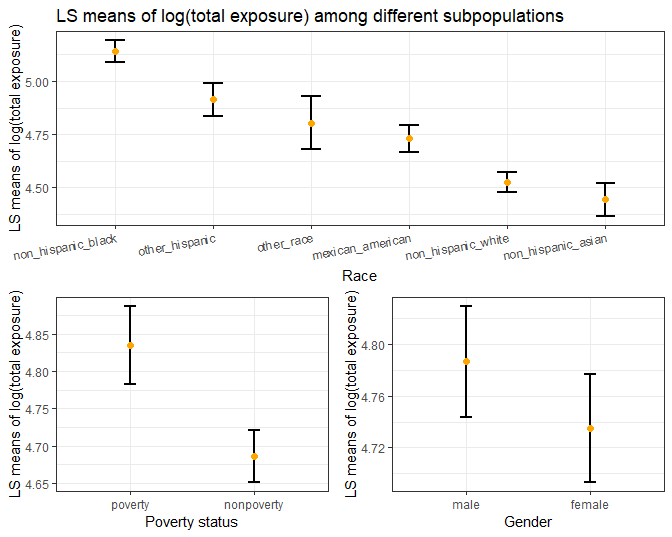
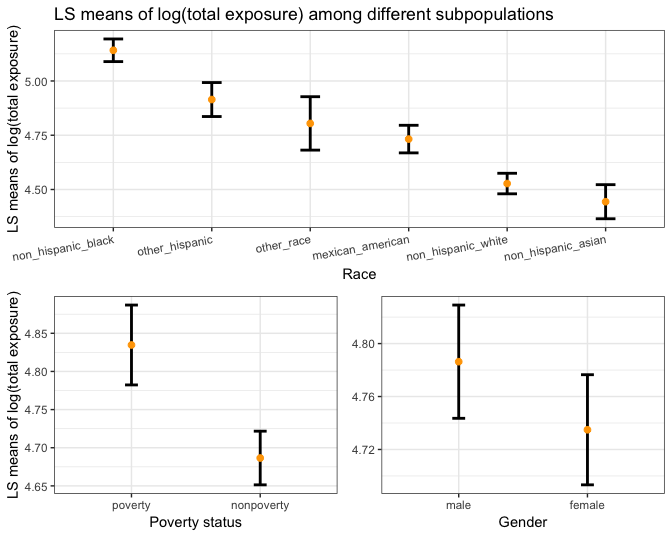
add plot title

diff --git a/report.md b/report.md
@@ -21,8 +21,6 @@ Related works
 
 3.<https://doi.org/10.1289/ehp.93101378>
 
-<<<<<<< HEAD
-=======
 4.<https://doi.org/10.2174/1568008043340017>
 
 5.<https://doi.org/10.1016/j.jhazmat.2017.06.036>
@@ -51,7 +49,6 @@ Initial questions:
 -   Are people exposed at the same levels of plasticizers affected the same way?
 -   Is there a dose response relationship? Is this relationship linear?
 
->>>>>>> 06b478542b646c7da54550225292c2aefb2b7840
 Data sources
 ------------
 
@@ -173,7 +170,7 @@ We created a function (`read_file_data`) to read and combine data with one docum
 
 We selected variables of interest and converted `gender`, `race`, `bmi_cat` and `poverty_status` into factors. For each individual, the total exposure (`phthte_all`) was calculated as the sum of exposure for each of the eight phthalates. Then we used `gather` to go from wide format to long format. We took log transformation of `concentrate` to create `log_value`.
 
-The final dataset contains data for 8 urinary phthalate metabolites and related information from 8149 participants in the National Health and Nutrition Examination Survey (NHANES) 20011–2016. It contains 73341 observations and 11 variables.
+The final dataset contains data for 8 urinary phthalate metabolites and related information from 8149 participants in the National Health and Nutrition Examination Survey (NHANES) 2011–2016. It contains 73341 observations and 11 variables.
 
 -   `id`: Respondent sequence number
 -   `gender`: Gender
@@ -182,7 +179,7 @@ The final dataset contains data for 8 urinary phthalate metabolites and related 
 -   `bmi`: Body mass index (kg/m\*\*2)
 -   `bmi_cat`: BMI Category (only for children/youth)
 -   `age_cat`: Child or adult
--   `phthalate`: Different chemical components as phthalates
+-   `phthalate`: Different chemical components as phthalates and the sum-total exposure
 -   `concentrate`: Concentration of the components
 -   `log_value`: log value of the concentration
 
@@ -317,7 +314,7 @@ bar_1 + (bar_2 + bar_3 + bar_4) + plot_layout(ncol = 1)
 
 <img src="report_files/figure-markdown_github/unnamed-chunk-5-1.png" style="display: block; margin: auto;" />
 
-We made barplots to show percent contribution of individual phthalates to the sum-total exposure among different subgroups. We found that mono-ethyl phthalate (MEP) contributed most to the sum-total exposure. And percent contribution patterns are different in children and adults and among different races.
+We made barplots to show percent contribution of individual phthalates to the sum-total exposure among different subgroups. We found that mono-ethyl phthalate (MEP) contributed most to the sum-total exposure. And percent contribution patterns are different among children and adults and among different race groups.
 
 Density plots of the sum-total exposure
 ---------------------------------------
@@ -327,7 +324,7 @@ p1_density =
   phthte_demo_bmx %>% 
   filter(phthalate == "phthalate_all") %>% 
   ggplot(aes(x = concentrate)) + 
-  geom_density() +
+  geom_density(fill = "orange", alpha = 0.5) +
   labs(
     title = "Density plot of the sum-total exposure",
     y = "Density",
@@ -338,11 +335,11 @@ p2_density =
   phthte_demo_bmx %>% 
   filter(phthalate == "phthalate_all") %>% 
   ggplot(aes(x = log_value)) + 
-  geom_density() +
+  geom_density(fill = "orange", alpha = 0.5) +
   labs(
     title = "Density plot of log(the sum-total exposure)",
     y = "Density",
-    x = "Log(the sum-total exposure)"
+    x = "Log(sum-total exposure)"
   )
 
 p1_density + p2_density + plot_layout(ncol = 1)
@@ -350,10 +347,10 @@ p1_density + p2_density + plot_layout(ncol = 1)
 
 <img src="report_files/figure-markdown_github/unnamed-chunk-6-1.png" style="display: block; margin: auto;" />
 
-As the distribution of the sum-total exposure is extremely right skewed, we used log(the sum-total exposure) (`log_value`) to do subsequent analyses.
+As the distribution of the sum-total exposure is extremely right skewed, we used log(sum-total exposure) (`log_value`) to do subsequent analyses.
 
-Violin plots of log(the sum-total exposure)
--------------------------------------------
+Violin plots of log(sum-total exposure)
+---------------------------------------
 
 ``` r
 race_dist =
@@ -428,14 +425,12 @@ race_dist
 
 <img src="report_files/figure-markdown_github/unnamed-chunk-7-2.png" style="display: block; margin: auto;" />
 
-We stratfied the study population on the basis of gender, poverty status, race and age, and made violin plots for each subgroup. From violin plots, we found that there were between-group differences in log(the sum-total exposure) on the basis of race and poverty status. However, differences are not very obvious in violin plots.
+We stratified the study population on the basis of gender, poverty status, race and age, and made violin plots for each subgroup. From violin plots, we found that there were between-group differences in log(sum-total exposure) on the basis of race and poverty status. However, differences are not very obvious in violin plots.
 
 LS means analysis
 -----------------
 
-In order to compare log(the sum-total exposure) value in different subgroups, we fitted a multilinear model and calculated least square means.
-
-In order to compare phthalates concentrate in different subpopulations, we fitted a multilinear model and calculated the least square means.
+In order to compare log(sum-total exposure) value in different subgroups, we fitted a multilinear model and calculated least square means.
 
 ### Fit a multilinear model
 
@@ -521,7 +516,7 @@ p3_gender =
   geom_point(color = "orange", size = 2) +
   labs(
     x = "Gender",
-    y = "LS means of log(total exposure)"
+    y = NULL
   ) 
 
 
@@ -530,16 +525,16 @@ p1_race + (p2_poverty + p3_gender) + plot_layout(ncol = 1)
 
 <img src="report_files/figure-markdown_github/unnamed-chunk-9-1.png" style="display: block; margin: auto;" />
 
-Plots shows least square mean value and 95% confidence intervals of log(total exposure) by race, poverty status and gender. (Least square means are means for groups that are adjusted for other terms in the model)
+Plots above show least square means and 95% confidence intervals of log(sum-total exposure) by race, poverty status and gender. (Least square means are means for groups that are adjusted for other terms in the model)
 
--   Compared to other races, levels of the sum-total exposure were significantly higher in non\_hispanic\_black.
--   Compared to the nonpoverty, levels of the sum-total exposure were significantly higher in poverty.
+-   Compared to other race groups, levels of the sum-total exposure were significantly higher in non\_hispanic\_blacks.
+-   Compared to the group who are living in nonpoverty, levels of the sum-total exposure were significantly higher in the group who are living in poverty.
 -   Compared to females, levels of the sum-total exposure were higher in males.
 
 Obesity analysis
 ----------------
 
-In this part, we tried to explore the association of the phthalate exposure and the body mass index (BMI) and obesity outcome.
+In this part, we tried to explore the association of the sum-total phthalate exposure and the body mass index (BMI) and obesity outcome.
 
 ### Explore the association between the phthalate exposure and obesity status
 
@@ -554,36 +549,36 @@ phthte_adult = phthte_demo_bmx %>%
 
 phth_obese_children = phthte_children %>%
   filter(phthalate == "phthalate_all") %>%
-  ggplot(aes(x = log_value, y = bmi, color = gender)) +
-  geom_point(alpha = 0.3) +
-  geom_smooth(method = "lm", lwd = 1.5) +
+  ggplot(aes(x = log_value, y = bmi)) +
+  geom_point(aes(color = gender), alpha = 0.5) +
+  geom_smooth(method = "lm") +
   facet_grid(~gender) +
   labs(
     x = "Log value of phthalates concentrate",
     y = "Body mass index (BMI)",
     title = "Association between the phthalate exposure and obesity status among children"
   ) +
-  scale_fill_brewer(palette = "Pastel2")
+  scale_color_brewer(palette = "Pastel2")
 
 phth_obese_adult = phthte_adult %>%
   filter(phthalate == "phthalate_all") %>%
-  ggplot(aes(x = log_value, y = bmi, color = gender)) +
-  geom_point(alpha = 0.3) +
-  geom_smooth(method = "lm", lwd = 1.5) +
+  ggplot(aes(x = log_value, y = bmi)) +
+  geom_point(aes(color = gender), alpha = 0.5) +
+  geom_smooth(method = "lm") +
   facet_grid(~gender) +
   labs(
     x = "Log value of phthalates concentrate",
     y = "Body mass index (BMI)",
     title = "Association between the phthalate exposure and obesity status among adults"
   ) +
-  scale_fill_brewer(palette = "Pastel2")
+  scale_color_brewer(palette = "Pastel2")
 
 phth_obese_children/phth_obese_adult
 ```
 
 <img src="report_files/figure-markdown_github/unnamed-chunk-10-1.png" style="display: block; margin: auto;" />
 
-Plots above showed a positive association of phthalates and BMI among both children and adults. Among children, the association tends to be stronger in males than that in females. However, among adults, the association tends to be stronger in females than that in males.
+Plots above show a positive association of phthalate and BMI among both children and adults. Among children, the association tends to be stronger in males than that in females. However, among adults, the association tends to be stronger in females than that in males.
 
 ### Fit the GLM model
 
@@ -678,11 +673,11 @@ bind_rows(boy_OR, girl_OR, male_OR, female_OR) %>%
 | adult    | 1.18(1.09, 1.29) | 1.11(1.02, 1.2)  |
 | children | 1(0.89, 1.11)    | 1.15(1.02, 1.29) |
 
-The table above summarized the change in odds of being obese due to increase in the magnitude of phthalate exposure, after adjusting for age, race and poverty status in the regression model. We reported the results stratified by gender, as the association between phthalate and obesity might be modified by gender.
+The table above summarizes the change in odds of being overweight/obese due to increase in the magnitude of sum-total phthalate exposure, after adjusting for age, race and poverty status in the regression model. We reported the results stratified by gender, as the association between phthalate and obesity might be modified by gender.
 
-Among adults, for a one-unit increase in phthalate exposure, we expect to see about 18% and 11% increase in the odds of being overweight/obese for females and males, respectively, adjusting for age, race and poverty status.
+Among adults, for a one-unit increase in the sum-total phthalate exposure, we expect to see about 18% and 11% increase in the odds of being overweight/obese for females and males, respectively, adjusting for age, race and poverty status.
 
-Among children, there is no association between phthalate and obesity in females statistically. While in males, for a one-unit increase in phthalate exposure, we expect to see about 15% increase in the odds of being overweight/obese, adjusting for age, race and poverty status.
+Among children, there is no association between phthalate and obesity in females statistically. While in males, for a one-unit increase in the sum-total phthalate exposure, we expect to see about 15% increase in the odds of being overweight/obese, adjusting for age, race and poverty status.
 
 ### Discussion:
 
